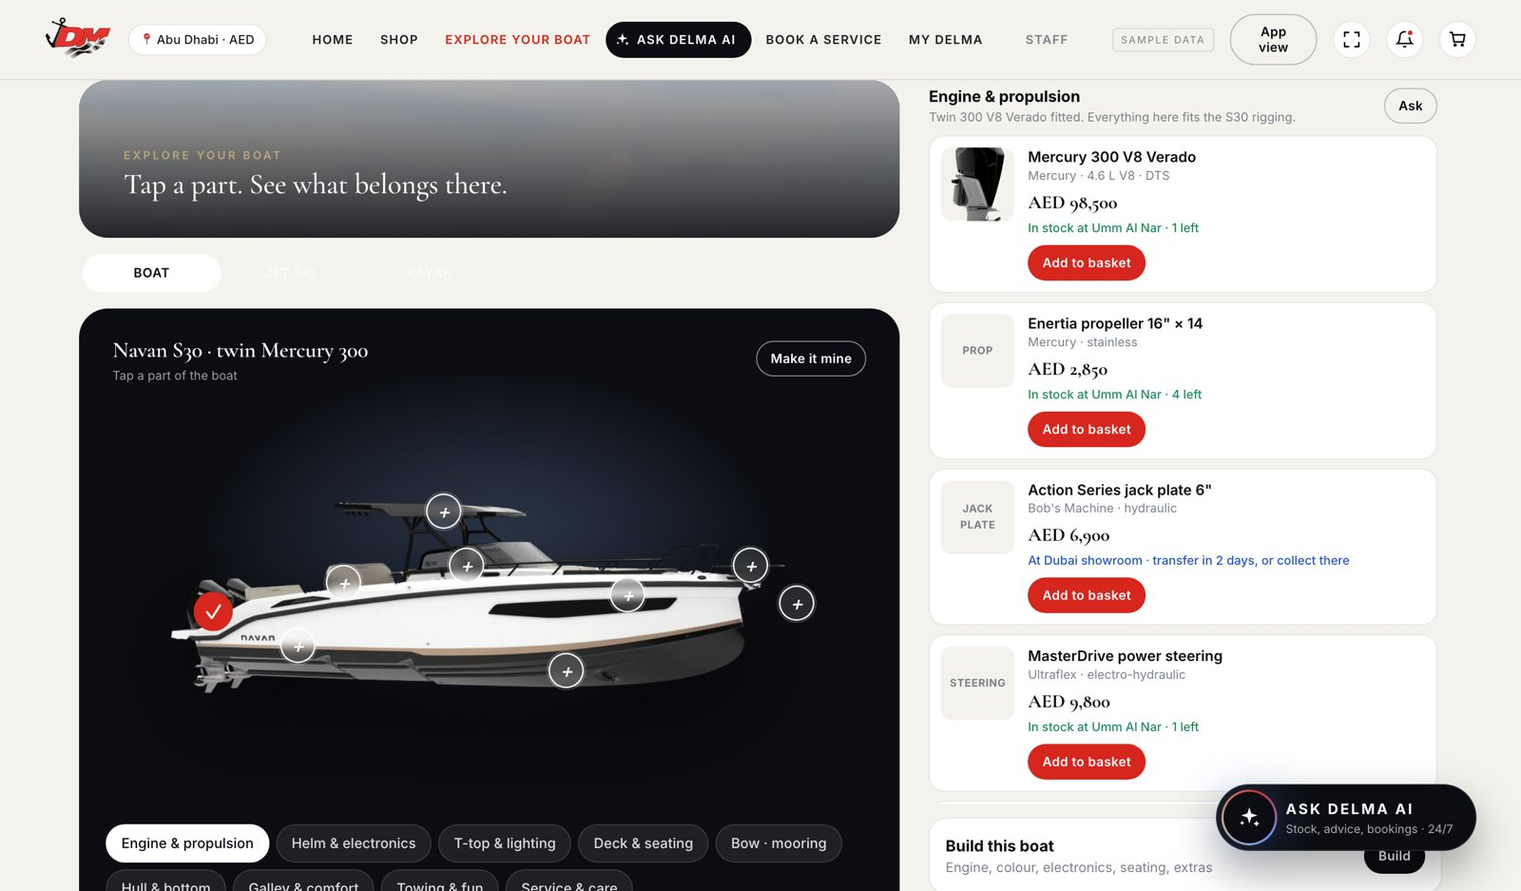
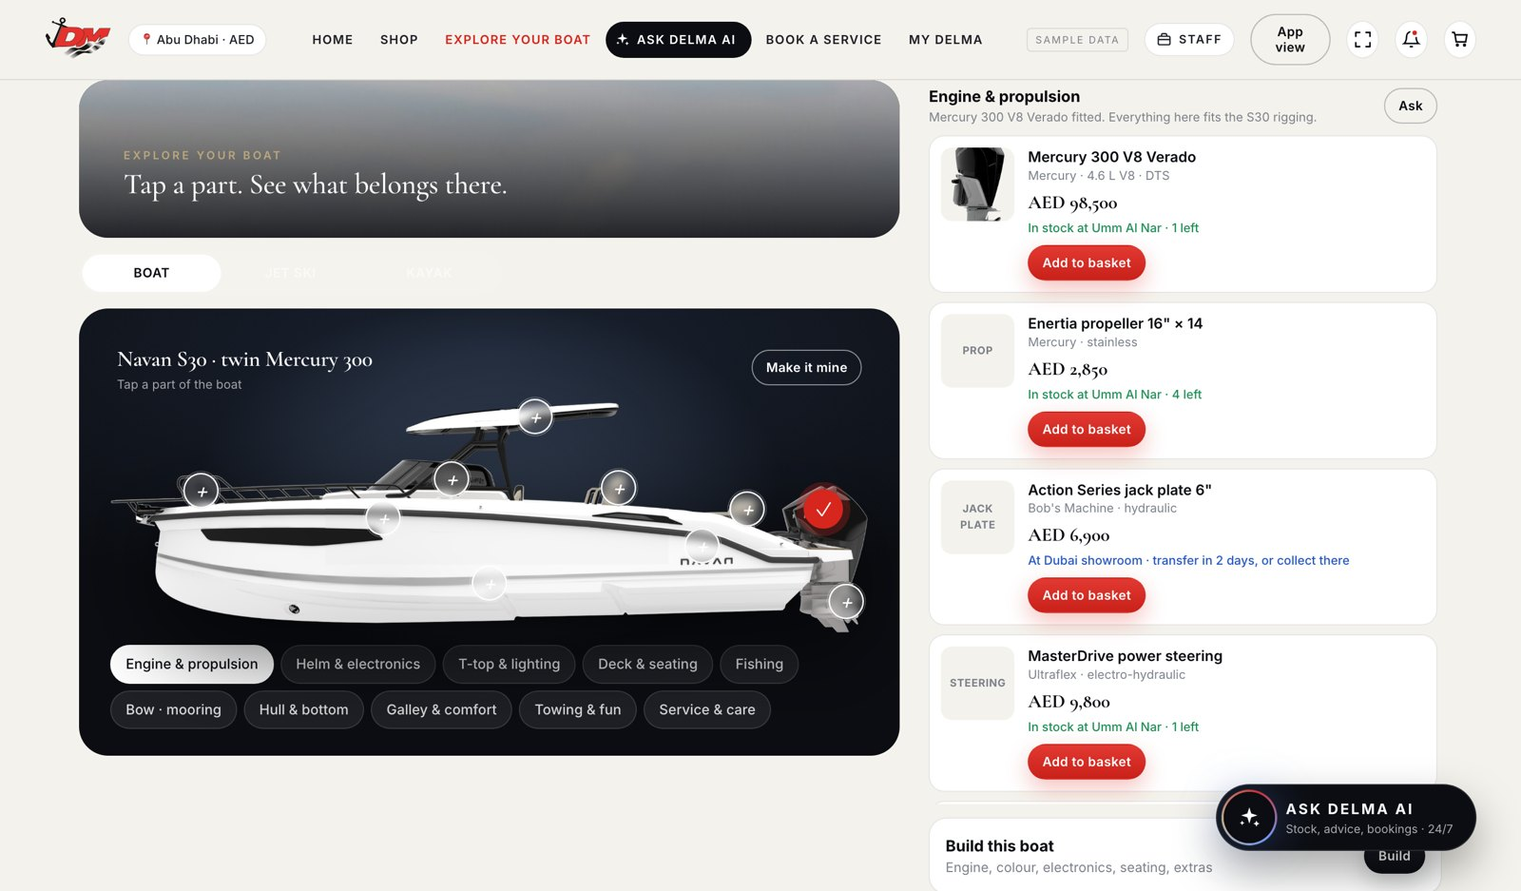
Official Navan S30 render; story hotspots with labels and product drawer; craft switcher; fishing area; Staff entry

diff --git a/index.html b/index.html
@@ -681,6 +681,28 @@ body.desk .awards{gap:28px;margin-top:40px}
 body.desk .awards img{height:170px}
 body.desk .awards p{font-size:15px;max-width:420px}
 body.desk .chap.st{display:grid;grid-template-columns:1fr 1fr;align-items:center;gap:60px;padding:90px 64px}
+/* story: labels, switcher, drawer */
+.story .hs{width:30px;height:30px;margin:-15px 0 0 -15px}
+.story .hs .hl{position:absolute;left:38px;top:50%;transform:translateY(-50%);white-space:nowrap;font-size:11px;letter-spacing:.14em;text-transform:uppercase;color:#fff;background:rgba(11,13,18,.7);backdrop-filter:blur(6px);padding:5px 9px;border-radius:999px;opacity:0;transition:.25s;pointer-events:none;font-weight:600}
+.story .hs:hover .hl,.story .hs.on .hl{opacity:1}
+.story .hs.r .hl{left:auto;right:38px}
+.sw2{position:absolute;right:18px;top:16px;z-index:4;display:flex;background:rgba(255,255,255,.1);border:1px solid rgba(255,255,255,.2);border-radius:999px;padding:3px}
+.sw2 span{padding:7px 12px;border-radius:999px;font-size:10.5px;letter-spacing:.14em;text-transform:uppercase;color:rgba(255,255,255,.7);cursor:pointer;font-weight:600}
+.sw2 span.on{background:#fff;color:var(--ink)}
+.story .hint{position:absolute;left:50%;transform:translateX(-50%);top:62px;z-index:3;font-size:11px;letter-spacing:.14em;text-transform:uppercase;color:rgba(255,255,255,.55)}
+body.desk .sw2{right:64px;top:36px}
+body.desk .sw2 span{padding:9px 16px;font-size:11.5px}
+body.desk .story .hint{top:auto;bottom:40px;left:auto;right:64px;transform:none}
+body.desk .story .hs{width:36px;height:36px;margin:-18px 0 0 -18px}
+body.desk .story .hs::after{line-height:33px;font-size:20px}
+body.desk .story .hs .hl{font-size:12px;left:46px}
+body.desk .story .hs.r .hl{left:auto;right:46px}
+body.desk .sheet.drawer{left:auto;right:28px;top:90px;bottom:28px;width:460px;max-height:none;transform:translateX(120%);border-radius:26px;padding:18px 20px 26px}
+body.desk .sheet.drawer.on{transform:none}
+/* staff entry */
+.staffbtn{display:inline-flex;align-items:center;gap:6px;border:1px solid var(--line);border-radius:999px;padding:6px 10px;font-size:10.5px;letter-spacing:.12em;text-transform:uppercase;font-weight:600;color:var(--ink2);cursor:pointer;background:#fff;white-space:nowrap}
+.staffbtn svg{width:14px;height:14px;stroke:currentColor;fill:none;stroke-width:2}
+body.desk.over .staffbtn{background:rgba(255,255,255,.14);color:#fff;border-color:rgba(255,255,255,.35)}
 /* reduced motion */
 @media(prefers-reduced-motion:reduce){*{animation:none!important;transition:none!important}}
 .hnav{display:none}
@@ -702,7 +724,7 @@ body.desk .chap.st{display:grid;grid-template-columns:1fr 1fr;align-items:center
 <div class="top">
   <img src="assets/logo.png" alt="Delma Marine">
   <span class="pill" id="regionpill" onclick="toggleRegion()">📍 Abu Dhabi · AED</span>
-  <div class="hnav" id="hnav"><span data-s="home" onclick="go('home')">Home</span><span data-s="shop" onclick="go('shop')">Shop</span><span data-s="explore" onclick="go('explore')">Explore your boat</span><span data-s="ask" class="ai" onclick="go('ask')"><svg viewBox="0 0 24 24"><path d="M12 2l1.9 6.1L20 10l-6.1 1.9L12 18l-1.9-6.1L4 10l6.1-1.9zM19 15l.9 2.1L22 18l-2.1.9L19 21l-.9-2.1L16 18l2.1-.9zM5 15l.7 1.6L7.3 17.3l-1.6.7L5 19.6l-.7-1.6L2.7 17.3l1.6-.7z"/></svg>Ask Delma AI</span><span data-s="book" onclick="go('book')">Book a service</span><span data-s="mydelma" onclick="go('mydelma')">My Delma</span><span data-s="staff" onclick="go('staff')" style="margin-left:14px;color:var(--mut)">Staff</span></div><span class="sp"></span><span class="sample">Sample data</span><button class="btn s o viewtog" onclick="toggleView()" id="vtog">App view</button><div class="ico viewtog" id="fsbtn" onclick="toggleFS()" title="Full screen (F)"><svg viewBox="0 0 24 24" fill="none" stroke="currentColor" stroke-width="2" stroke-linecap="round" stroke-linejoin="round"><path d="M8 3H3v5M16 3h5v5M8 21H3v-5M16 21h5v-5"/></svg></div>
+  <div class="hnav" id="hnav"><span data-s="home" onclick="go('home')">Home</span><span data-s="shop" onclick="go('shop')">Shop</span><span data-s="explore" onclick="go('explore')">Explore your boat</span><span data-s="ask" class="ai" onclick="go('ask')"><svg viewBox="0 0 24 24"><path d="M12 2l1.9 6.1L20 10l-6.1 1.9L12 18l-1.9-6.1L4 10l6.1-1.9zM19 15l.9 2.1L22 18l-2.1.9L19 21l-.9-2.1L16 18l2.1-.9zM5 15l.7 1.6L7.3 17.3l-1.6.7L5 19.6l-.7-1.6L2.7 17.3l1.6-.7z"/></svg>Ask Delma AI</span><span data-s="book" onclick="go('book')">Book a service</span><span data-s="mydelma" onclick="go('mydelma')">My Delma</span></div><span class="sp"></span><span class="sample">Sample data</span><span class="staffbtn" onclick="go('staff')" title="Staff: manager and technician views"><svg viewBox="0 0 24 24"><rect x="3" y="7" width="18" height="13" rx="2"/><path d="M8 7V5a2 2 0 012-2h4a2 2 0 012 2v2M3 12h18"/></svg>Staff</span><button class="btn s o viewtog" onclick="toggleView()" id="vtog">App view</button><div class="ico viewtog" id="fsbtn" onclick="toggleFS()" title="Full screen (F)"><svg viewBox="0 0 24 24" fill="none" stroke="currentColor" stroke-width="2" stroke-linecap="round" stroke-linejoin="round"><path d="M8 3H3v5M16 3h5v5M8 21H3v-5M16 21h5v-5"/></svg></div>
   <div class="ico" onclick="go('offers')"><svg viewBox="0 0 24 24" fill="none" stroke="currentColor" stroke-width="2"><path d="M6 8a6 6 0 0112 0c0 7 3 9 3 9H3s3-2 3-9M10 21h4"/></svg><i class="dot"></i></div>
   <div class="ico" onclick="go('basket')"><svg viewBox="0 0 24 24" fill="none" stroke="currentColor" stroke-width="2"><path d="M6 6h15l-1.5 9h-12zM6 6L5 3H2M9 20a1 1 0 100-2 1 1 0 000 2zM18 20a1 1 0 100-2 1 1 0 000 2z"/></svg><i class="dot" id="bdot" style="display:none"></i></div>
 </div>
@@ -728,7 +750,7 @@ body.desk .chap.st{display:grid;grid-template-columns:1fr 1fr;align-items:center
   <section class="chap craft-ch"><div class="bg" style="background-image:url(assets/photos/dark-yacht.jpg);opacity:.55"></div><div class="sh"></div>
     <div class="idx">01 · FIND YOUR CRAFT</div><h2>Built for how<br>you'll use it.</h2><div class="hair"></div><p>Day boats, electric watercraft, unsinkable workboats, kayaks, eFoils. Each one chosen for the Gulf, fitted and supported by Delma.</p>
     <div class="craft-row">
-      <div class="cr" onclick="go('explore')"><div class="bg" style="background-image:url(assets/photos/dark-yacht.jpg)"></div><div class="num">01</div><div class="cut" style="background-image:url(assets/navan.png)"></div><div class="t"><span>Day boats · cruisers</span><b>Navan · Bayliner</b><i>6 to 10 m · Mercury power</i></div></div>
+      <div class="cr" onclick="go('explore')"><div class="bg" style="background-image:url(assets/photos/nv-s30-running.jpg)"></div><div class="num">01</div><div class="cut" style="background-image:url(assets/navan.png)"></div><div class="t"><span>Day boats · cruisers</span><b>Navan · Bayliner</b><i>6 to 10 m · Mercury power</i></div></div>
       <div class="cr" onclick="setCraftByName('jetski')"><div class="bg" style="background-image:url(assets/photos/jetski.jpg)"></div><div class="num">02</div><div class="cut" style="background-image:url(assets/taiga.png)"></div><div class="t"><span>Electric watercraft</span><b>Taiga · iWave</b><i>Silent · no fuel · instant torque</i></div></div>
       <div class="cr" onclick="go('explore')"><div class="bg" style="background-image:url(assets/photos/choppy.jpg)"></div><div class="num">03</div><div class="cut" style="background-image:url(assets/whaly.png)"></div><div class="t"><span>Polyethylene boats</span><b>Whaly · SeaStorm</b><i>Unsinkable · zero maintenance</i></div></div>
       <div class="cr" onclick="setCraftByName('kayak')"><div class="bg" style="background-image:url(assets/photos/aerial-wake.jpg)"></div><div class="num">04</div><div class="cut" style="background-image:url(assets/kayak.png)"></div><div class="t"><span>Paddle · fish</span><b>Pelican · Wilderness</b><i>Stable fishing kayaks</i></div></div>
@@ -738,7 +760,7 @@ body.desk .chap.st{display:grid;grid-template-columns:1fr 1fr;align-items:center
 
   <!-- 02 story (pinned) -->
   <section class="story" id="story">
-    <div class="pin"><div class="glow"></div><div class="idx2">02 · EXPLORE YOUR BOAT</div>
+    <div class="pin"><div class="glow"></div><div class="idx2">02 · EXPLORE YOUR BOAT</div><div class="sw2" id="story-sw"><span data-c="boat" class="on" onclick="storySwitch('boat')">Boat</span><span data-c="jetski" onclick="storySwitch('jetski')">Jet ski</span><span data-c="kayak" onclick="storySwitch('kayak')">Kayak</span></div><div class="hint">Tap a point to see what fits there</div>
       <div class="stage" id="story-stage"></div>
       <div class="cap" id="story-cap"><div class="k"></div><h3></h3><p></p></div>
       <div class="dots" id="story-dots"><i class="on"></i><i></i><i></i><i></i></div>
@@ -756,7 +778,7 @@ body.desk .chap.st{display:grid;grid-template-columns:1fr 1fr;align-items:center
   <section class="chap lt" data-n="03" style="justify-content:flex-start;padding-top:34px"><div class="idx">03 · WHAT DO YOU WANT TO DO?</div><h2>Start with the day<br>you have in mind.</h2><div class="hair"></div><p>Tell us the day. We put together the boat, the engine and everything that goes with it.</p>
     <div class="mosaic">
       <div class="mo tall" onclick="go('explore')"><div class="bg" style="background-image:url(assets/photos/hero-race.jpg)"></div><span>Offshore</span><b>Fishing</b></div>
-      <div class="mo" onclick="go('explore')"><div class="bg" style="background-image:url(assets/photos/aerial-bow.jpg)"></div><span>Sunday</span><b>Family day out</b></div>
+      <div class="mo" onclick="go('explore')"><div class="bg" style="background-image:url(assets/photos/nv-drone.jpg)"></div><span>Sunday</span><b>Family day out</b></div>
       <div class="mo" onclick="setCraftByName('jetski')"><div class="bg" style="background-image:url(assets/photos/jetski-sunset.jpg)"></div><span>Tow &amp; ride</span><b>Watersports</b></div>
       <div class="mo" onclick="go('explore')"><div class="bg" style="background-image:url(assets/photos/diver.jpg)"></div><span>Below</span><b>Diving</b></div>
       <div class="mo" onclick="setCraftByName('kayak')"><div class="bg" style="background-image:url(assets/photos/aerial-wake.jpg)"></div><span>Quiet water</span><b>Kayaking</b></div>
@@ -1076,7 +1098,7 @@ function renderRail(target){const el=target||document.getElementById('rail');con
  <h4>Price</h4>${[['any','Any'],['0-500','Under 500'],['500-5000','500 – 5,000'],['5000-50000','5,000 – 50,000'],['50000-','50,000 and above']].map(([v,l])=>`<label><input type="radio" name="pr" ${F.price===v?'checked':''} onchange="F.price='${v}';renderShop()">${l}</label>`).join('')}
  <h4>Brand</h4><div style="max-height:220px;overflow:auto">${brands.map(b=>`<label><input type="checkbox" ${F.brand.has(b)?'checked':''} onchange="tog('brand','${b.replace(/'/g,"\\'")}')">${b}</label>`).join('')}</div>`}
 function tog(k,v){F[k].has(v)?F[k].delete(v):F[k].add(v);renderShop()}
-const CIMG={'Boats':'assets/photos/hero-race.jpg','Watercraft':'assets/photos/jetski.jpg','Kayaks':'assets/photos/aerial-wake.jpg','Engines':'assets/photos/choppy.jpg','Electronics':'assets/photos/helm.jpg','Fishing':'assets/photos/dark-yacht.jpg','Diving':'assets/photos/diver.jpg','Watersports':'assets/photos/jetski-sunset.jpg','Lighting':'assets/photos/marina-sunset.jpg','Service & care':'assets/workshop.jpg'};
+const CIMG={'Boats':'assets/photos/nv-s30-running.jpg','Watercraft':'assets/photos/jetski.jpg','Kayaks':'assets/photos/aerial-wake.jpg','Engines':'assets/photos/choppy.jpg','Electronics':'assets/photos/helm.jpg','Fishing':'assets/photos/dark-yacht.jpg','Diving':'assets/photos/diver.jpg','Watersports':'assets/photos/jetski-sunset.jpg','Lighting':'assets/photos/marina-sunset.jpg','Service & care':'assets/workshop.jpg'};
 function renderStrip(){const el=document.getElementById('cstrip');if(!el)return;el.innerHTML=Object.keys(CIMG).map(c=>`<div class="ct ${F.cat.has(c)?'on':''}" onclick="F.cat.clear();${F.cat.has(c)?'':`F.cat.add('${c}')`};renderShop()"><div class="bg" style="background-image:url(${CIMG[c]})"></div><b>${c}</b></div>`).join('')}
 function renderShop(){renderStrip();const ids=shopItems();const gc=document.getElementById('galcount');if(gc)gc.textContent=Object.keys(CATS).length;document.getElementById('shopcnt').textContent=ids.length+' of '+Object.keys(CATS).length+' items';
  const chips=[...F.cat].map(c=>`<span onclick="tog('cat','${c}')">${c}</span>`).concat([...F.brand].map(b=>`<span onclick="tog('brand','${b.replace(/'/g,"\\'")}')">${b}</span>`)).concat(F.fits?['<span onclick="F.fits=false;renderShop()">Fits my boat</span>']:[]).concat(F.avail!=='any'?[`<span onclick="F.avail='any';renderShop()">${F.avail==='here'?'In stock at my branch':'In stock at any branch'}</span>`]:[]).concat(F.price!=='any'?[`<span onclick="F.price='any';renderShop()">Price ${F.price.replace('-',' – ')}</span>`]:[]);
@@ -1085,13 +1107,28 @@ function renderShop(){renderStrip();const ids=shopItems();const gc=document.getE
  renderRail();const sr=document.getElementById('sheetrail');if(sr)renderRail(sr)}
 function quickView(id){const p=P[id],a=avail(id);const s=document.getElementById('sheet');s.innerHTML=`<div class="handle"></div><div class="pim" style="height:180px;border-radius:16px;display:grid;place-items:center;background:${WIDE.has(id)?'radial-gradient(120% 90% at 70% 30%,#1F2633,#0B0D12)':'linear-gradient(160deg,#F7F5EF,#E6E2D8)'};margin-bottom:12px;overflow:hidden">${IMG[id]?`<img src="${IMG[id]}" style="width:80%;height:80%;object-fit:contain;filter:drop-shadow(0 16px 20px rgba(0,0,0,.25))">`:`<span class="serif" style="font-size:22px;color:var(--mut)">${brandOf(id)}</span>`}</div><div class="xs" style="letter-spacing:.14em;text-transform:uppercase;color:var(--mut)">${brandOf(id)} · ${CATS[id]}</div><b class="serif" style="font-size:22px;display:block;margin:2px 0">${p.n}</b><div class="sm mut">${p.br}</div><div class="serif" style="font-size:24px;font-weight:700;margin:8px 0 2px">${p.mode==='shown'?fmt(p.p):'Price on request'}</div><div class="av ${a.c}">${a.t}</div><div class="row" style="margin-top:14px">${p.mode==='request'?`<button class="btn w o" onclick="closeSheet();toast('Quote request sent · Delma replies within an hour')">Request price</button><button class="btn w k" onclick="closeSheet();go('build')">Build it</button>`:`<button class="btn w p" onclick="addToBasket('${id}');closeSheet()">Add to basket</button><button class="btn w o" onclick="closeSheet();go('ask')">Ask Delma AI</button>`}</div>`;s.classList.add('on');document.getElementById('dim').classList.add('on')}
 /* pinned story */
-const STEPS=[
- {k:'01 · Engine & propulsion',h:'Twin Mercury 300 V8 Verado.',p:'Propellers, controls, oils and service kits, matched to the engine on your transom.',hs:0,tf:'translate(8%,2%) scale(1.12)'},
- {k:'02 · Helm & electronics',h:'See more. Hear more.',p:'Lowrance sonar and charts, Omnisense night vision, Kicker audio. Mounted by the people who wire it.',hs:1,tf:'translate(-2%,6%) scale(1.18)'},
- {k:'03 · Deck & comfort',h:'Room for everyone.',p:'Comfort Seat, E-SeaRider bean bags, Borika rod holders, rods and tackle, dry cases.',hs:3,tf:'translate(4%,-2%) scale(1.06)'},
- {k:'04 · Looked after',h:'Fitted, serviced, followed live.',p:'Installation and service at four Delma workshops. Watch every job in My Delma, approve extra work in one tap.',hs:8,tf:'translate(0,0) scale(1)'}];
+const STEPSBY={
+ boat:[
+  {k:'01 · Engine & propulsion',h:'Mercury 300 V8 Verado.',p:'Propellers, controls, oils and service kits, matched to the engine on your transom.',hs:0,tf:'translate(-14%,2%) scale(1.16)'},
+  {k:'02 · Helm & electronics',h:'See more. Hear more.',p:'Lowrance sonar and charts, Omnisense night vision, Kicker audio. Mounted by the people who wire it.',hs:1,tf:'translate(6%,10%) scale(1.22)'},
+  {k:'03 · Deck & fishing',h:'Room for everyone, and the rods.',p:'Comfort Seat, E-SeaRider bean bags, Borika rod holders, rods, reels and tackle, dry cases.',hs:4,tf:'translate(-8%,4%) scale(1.12)'},
+  {k:'04 · Looked after',h:'Fitted, serviced, followed live.',p:'Installation and service at four Delma workshops. Watch every job in My Delma, approve extra work in one tap.',hs:9,tf:'translate(0,0) scale(1)'}],
+ jetski:[
+  {k:'01 · Handlebars & display',h:'Everything at your thumbs.',p:'Kicker audio and a dry case for the phone, fitted to the Orca.',hs:0,tf:'translate(2%,6%) scale(1.15)'},
+  {k:'02 · Seat & cover',h:'Ready for the sun.',p:'Taiga cover and Comfort Seat, so it looks new every weekend.',hs:1,tf:'translate(-6%,2%) scale(1.1)'},
+  {k:'03 · Safety & towing',h:'Bring the family.',p:'Connelly vests, tubes and tow ropes.',hs:4,tf:'translate(8%,0) scale(1.08)'},
+  {k:'04 · Charging & service',h:'Silent, electric, looked after.',p:'Fast charger on request; maintenance plans and service at a Delma workshop.',hs:3,tf:'translate(0,0) scale(1)'}],
+ kayak:[
+  {k:'01 · Seat & mounts',h:'Sit higher, cast further.',p:'Phase seat upgrade and Borika mounts on the Pelican Catch 110.',hs:0,tf:'translate(0,6%) scale(1.15)'},
+  {k:'02 · Electronics',h:'Find the fish.',p:'A Lowrance HOOK Reveal sized for a kayak, with the mount.',hs:1,tf:'translate(6%,2%) scale(1.1)'},
+  {k:'03 · Paddle & safety',h:'Everything else you need.',p:'Pelican paddle, Connelly vest, MAX dry case.',hs:2,tf:'translate(-6%,0) scale(1.08)'},
+  {k:'04 · Diving & snorkelling',h:'And below the surface.',p:'Beuchat masks, fins and snorkels from the Umm Al Nar showroom.',hs:3,tf:'translate(0,0) scale(1)'}]};
+let storyCraft='boat';
+let STEPS=STEPSBY.boat;
 let storyI=-1;
-function buildStory(){const st=document.getElementById('story-stage');if(!st||st.children.length)return;st.innerHTML=`<div class="floor"></div><img src="assets/navan.png" alt="">`+CRAFT.boat.areas.map((a,i)=>`<i class="hs" data-i="${i}" style="left:${a.x}%;top:${a.y}%" onclick="go('explore');pick(${i})"></i>`).join('');setStory(0,true)}
+function buildStory(force){const st=document.getElementById('story-stage');if(!st||(st.children.length&&!force))return;const c=CRAFT[storyCraft];st.innerHTML=`<div class="floor"></div><img src="${c.img}" alt="">`+c.areas.map((a,i)=>`<i class="hs ${a.x>60?'r':''}" data-i="${i}" style="left:${a.x}%;top:${a.y}%" onclick="event.stopPropagation();openArea('${storyCraft}',${i})"><span class="hl">${a.k}</span></i>`).join('');document.querySelectorAll('#story-sw span').forEach(e=>e.classList.toggle('on',e.dataset.c===storyCraft));storyI=-1;setStory(0,true)}
+function storySwitch(c){storyCraft=c;STEPS=STEPSBY[c];buildStory(true)}
+function openArea(c,i){const a=CRAFT[c].areas[i];const sh=document.getElementById('sheet');sh.classList.add('drawer');sh.innerHTML=`<div class="handle"></div><div class="eyebrow">${CRAFT[c].name}</div><b class="serif" style="font-size:24px;display:block;margin:2px 0 2px">${a.k}</b><div class="sm mut" style="margin-bottom:10px">${a.note}</div>`+a.items.map(id=>prodHTML(id)).join('')+`<div class="row" style="margin-top:10px"><button class="btn w k" onclick="closeSheet();craft='${c}';area=${i};go('explore');renderStage()">Open in the explorer</button><button class="btn w o" onclick="closeSheet();go('ask')">Ask Delma AI</button></div>`;sh.classList.add('on');document.getElementById('dim').classList.add('on')}
 function setStory(i,now){if(i===storyI)return;storyI=i;const S=STEPS[i],cap=document.getElementById('story-cap');const apply=()=>{cap.querySelector('.k').textContent=S.k;cap.querySelector('h3').textContent=S.h;cap.querySelector('p').textContent=S.p;cap.classList.remove('sw')};
  if(now||FAST){apply()}else{cap.classList.add('sw');setTimeout(apply,380)}
  document.getElementById('story-stage').style.transform=S.tf;
@@ -1112,15 +1149,16 @@ function reveal(){document.querySelectorAll('.scr.on .rv:not(.in)').forEach(el=>
 /* ---------- explorer ---------- */
 const CRAFT={
  boat:{name:'Navan S30 · twin Mercury 300',img:'assets/navan.png',areas:[
-  {k:'Engine & propulsion',x:14,y:52,items:['m300','prop','jack','steer','oil','inst'],note:'Twin 300 V8 Verado fitted. Everything here fits the S30 rigging.'},
-  {k:'Helm & electronics',x:47,y:41,items:['hds','fs9','omni','radar','seav','kick'],note:'Lowrance, Omnisense and Kicker, with Seaview mounts for the T-top.'},
-  {k:'T-top & lighting',x:44,y:28,items:['hel1','hel2','hel3','seav'],note:'Hella Marine LED: flood, navigation and underwater.'},
-  {k:'Deck & seating',x:31,y:45,items:['bor','rod','tackle','cseat','bean','maxc'],note:'Rod holders, rods and tackle, comfort on board, dry storage.'},
-  {k:'Bow · mooring',x:84,y:41,items:['rope','fend','fcov'],note:'Marlow ropes, Polyform fenders, Fendequip covers.'},
-  {k:'Hull & bottom',x:60,y:66,items:['micron','awl','clean'],note:'Antifouling and topside paint; cleaning kit.'},
-  {k:'Galley & comfort',x:68,y:48,items:['vit','vitp'],note:'Vitrifrigo cooling for the console galley.'},
-  {k:'Towing & fun',x:25,y:60,items:['tube','trope','ski','vest'],note:'Connelly water toys and vests for the family.'},
-  {k:'Service & care',x:90,y:50,items:['plan','kit','inst'],note:'Keep it covered: plan, service kits, installation at a Delma workshop.'}]},
+  {k:'Engine & propulsion',x:94,y:46,items:['m300','prop','jack','steer','oil','inst'],note:'Mercury 300 V8 Verado fitted. Everything here fits the S30 rigging.'},
+  {k:'Helm & electronics',x:45,y:33,items:['hds','fs9','omni','radar','seav','kick'],note:'Lowrance, Omnisense and Kicker, with Seaview mounts for the T-top.'},
+  {k:'T-top & lighting',x:56,y:6,items:['hel1','hel2','hel3','seav'],note:'Hella Marine LED: flood, navigation and underwater.'},
+  {k:'Deck & seating',x:67,y:37,items:['cseat','bean','maxc'],note:'Comfort on board and dry storage.'},
+  {k:'Fishing',x:84,y:46,items:['rod','tackle','bor','kff'],note:'Rods, reels, tackle and Borika rod holders, ready for the aft deck.'},
+  {k:'Bow · mooring',x:12,y:38,items:['rope','fend','fcov'],note:'Marlow ropes, Polyform fenders, Fendequip covers.'},
+  {k:'Hull & bottom',x:50,y:78,items:['micron','awl','clean'],note:'Antifouling and topside paint; cleaning kit.'},
+  {k:'Galley & comfort',x:36,y:50,items:['vit','vitp'],note:'Vitrifrigo cooling for the console galley.'},
+  {k:'Towing & fun',x:78,y:62,items:['tube','trope','ski','vest'],note:'Connelly water toys and vests for the family.'},
+  {k:'Service & care',x:97,y:86,items:['plan','kit','inst'],note:'Keep it covered: plan, service kits, installation at a Delma workshop.'}]},
  jetski:{name:'Taiga Orca · electric',img:'assets/taiga.png',areas:[
   {k:'Handlebars & display',x:44,y:27,items:['kick','maxc'],note:'Audio and a dry case for the phone.'},
   {k:'Seat & cover',x:62,y:40,items:['jcov','cseat'],note:'Taiga cover and seat comfort.'},
@@ -1287,7 +1325,7 @@ function openSheet(kind,o){const s=document.getElementById('sheet');if(kind==='p
  if(kind==='filters'){s.innerHTML='<div class="handle"></div><b style="font-size:16px">Filters</b><div class="rail" id="sheetrail" style="display:block;margin-top:8px"></div><button class="btn w k" style="margin-top:12px" onclick="closeSheet()">Show results</button>';renderRail(document.getElementById('sheetrail'))}
  if(kind==='mine')s.innerHTML=`<div class="handle"></div><b style="font-size:16px">Make it mine</b><p class="sm mut">Pick your exact boat and the explorer shows only what fits.</p>${[['Bayliner VR5 · Mercury 150','From My Delma'],['Navan S30 · twin Mercury 300','From My Delma'],['Enter a model or engine serial','Or scan the engine plate']].map(o=>`<div class="opt" onclick="closeSheet();toast('Showing parts that fit the ${o[0].split(' ·')[0]}')"><div class="ck"></div><div><b>${o[0]}</b><div class="xs mut">${o[1]}</div></div></div>`).join('')}`;
  s.classList.add('on');document.getElementById('dim').classList.add('on')}
-function closeSheet(){document.getElementById('sheet').classList.remove('on');document.getElementById('dim').classList.remove('on')}
+function closeSheet(){const sh=document.getElementById('sheet');sh.classList.remove('on');document.getElementById('dim').classList.remove('on');setTimeout(()=>sh.classList.remove('drawer'),350)}
 function paid(a){document.getElementById('sheet').innerHTML=`<div class="handle"></div><div style="text-align:center;padding:10px 0 4px"><div style="width:54px;height:54px;border-radius:50%;background:#E6F6EC;color:var(--ok);display:grid;place-items:center;margin:0 auto 10px;font-size:26px">✓</div><b style="font-size:16px">Paid ${a}</b><p class="sm mut" style="margin:4px 0 12px">Order DM-10482 confirmed · tax invoice emailed · we'll message you on WhatsApp with every update.</p><button class="btn k" onclick="closeSheet();basket=[];document.getElementById('bdot').style.display='none';renderBasket();go('mydelma')">Track it in My Delma</button></div>`}
 let tt;function toast(t){if(FAST)return;const e=document.getElementById('toast');e.textContent=t;e.classList.add('on');clearTimeout(tt);tt=setTimeout(()=>e.classList.remove('on'),2200)}
 function showPush(){const p=document.getElementById('push');p.classList.add('on');if(!FAST)setTimeout(()=>p.classList.remove('on'),4000)}

diff --git a/CREDITS.md b/CREDITS.md
@@ -12,3 +12,7 @@
 - freediver.jpg: Zunnoon Ahmed · https://unsplash.com/photos/np5FePVgH7Q
 - helm.jpg: Titania Octaviani · https://unsplash.com/photos/7-0g1kM0jA0
 - choppy.jpg: Ruben Gruber · https://unsplash.com/photos/_YTZWbo9DiI
+
+# Manufacturer imagery (Delma is the authorised dealer)
+- assets/navan.png, navan-c30.png: Navan S30 / C30 studio renders, Brunswick / Navan Boats (navan-boats.com), used for the dealer prototype.
+- assets/photos/nv-*.jpg: Navan lifestyle photography from navan-boats.com (800 px captures; replace with the dealer media-kit originals before launch).
